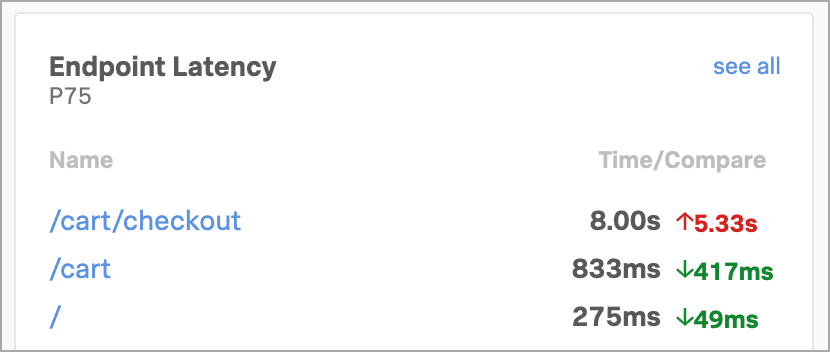
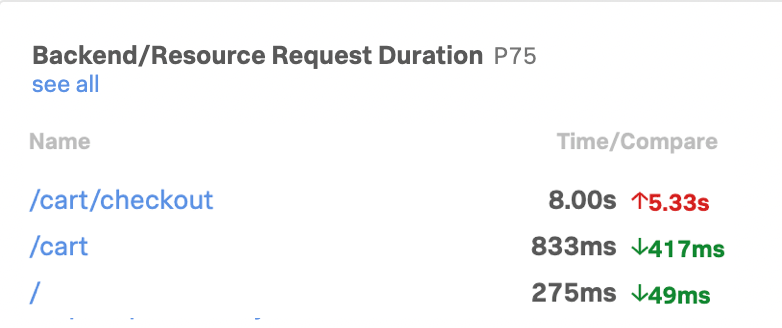
updated images

diff --git a/get-started/use-cases/use-case.rst b/get-started/use-cases/use-case.rst
@@ -73,7 +73,7 @@ The first thing Kai wants to know about the alert they just received is: What's 
 
     .. image:: /_images/get-started/endpoint-latency.png
       :width: 75%
-      :alt: This screenshot shows the Endpoint Latency module in Splunk Real User Monitoring. The module shows a latency of 8 seconds for the /cart/checkout endpoint.
+      :alt: This screenshot shows the Backend/Resource Request duration module in Splunk Real User Monitoring. The module shows a latency of 8 seconds for the /cart/checkout endpoint.
 
   2. Kai isn't sure if the two issues are related or whether they are the cause of the problems on the site. They decide to dig into the high latency of the :code:`/cart/checkout` endpoint because the page load time and largest contentful paint for :code:`cart/checkout` are also high.
   
